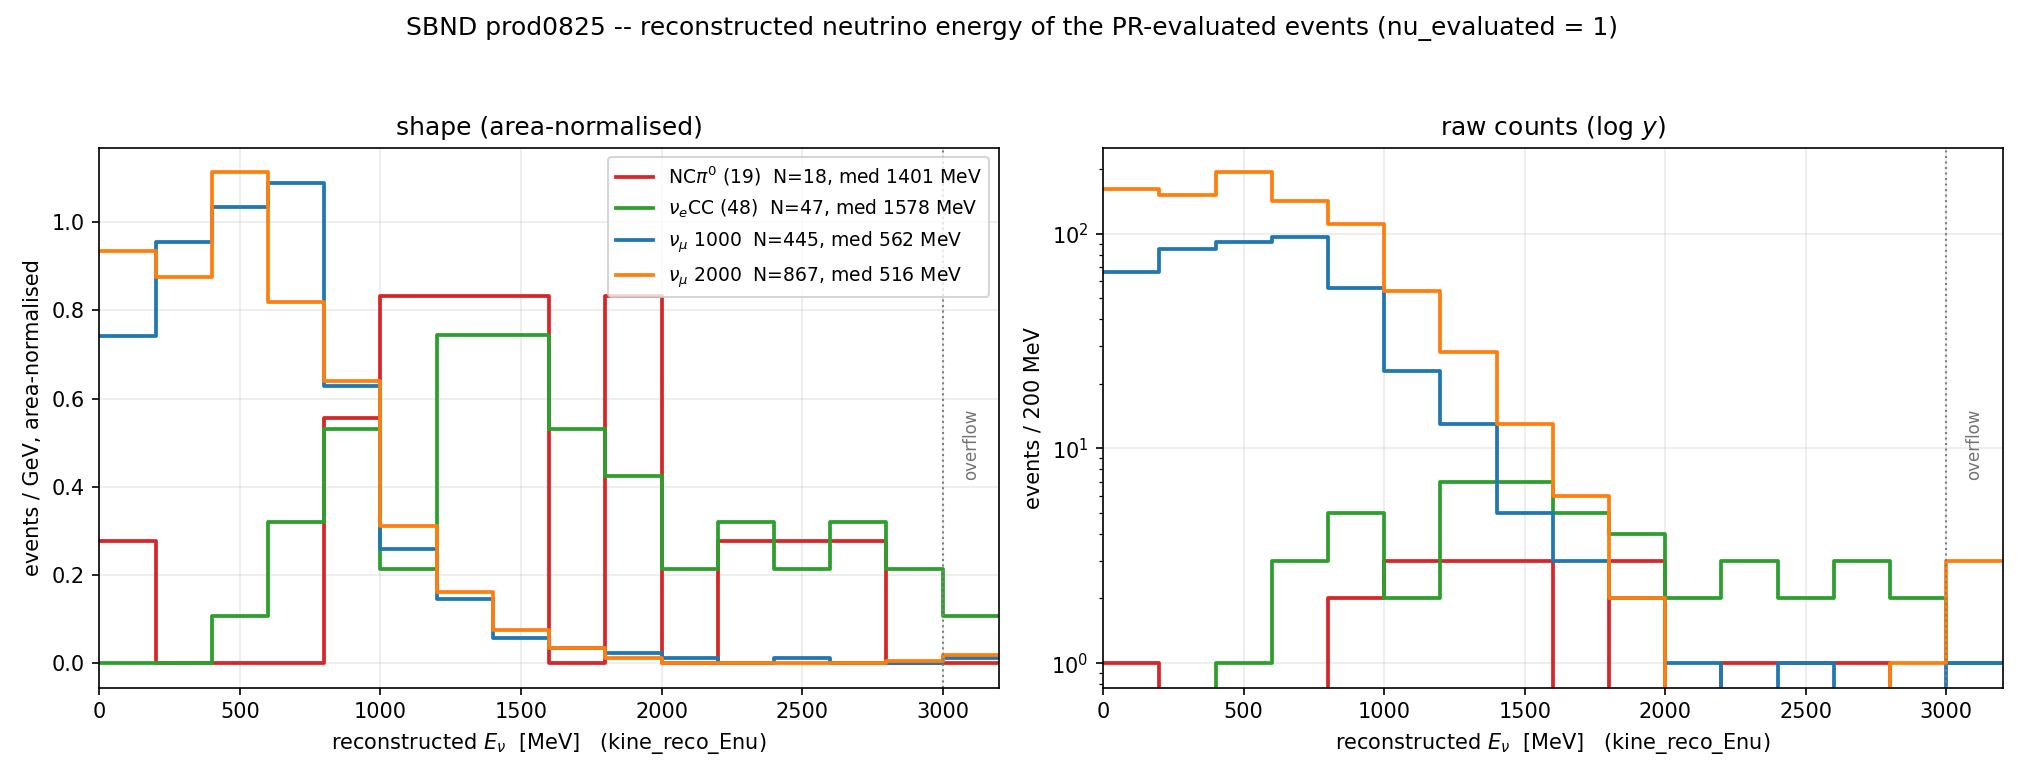
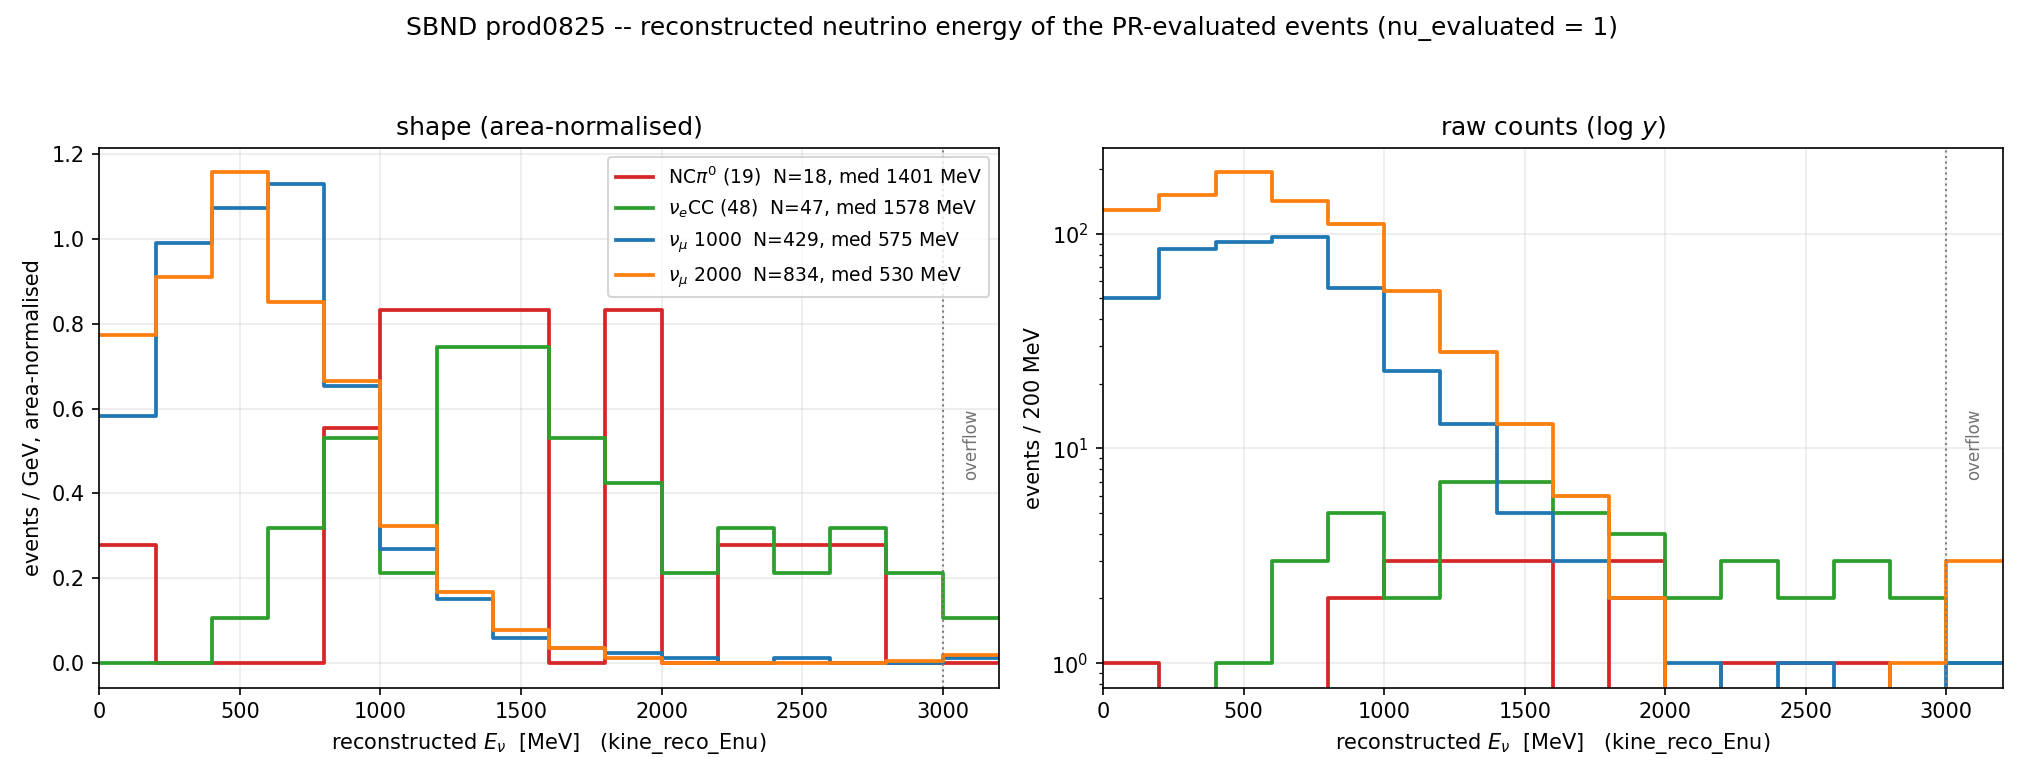
sbnd: doc 85 -- drop the 49 degenerate rows from both figures (zero-E, vertex 0,0,0)
Follow-up audit of the first energy bin.  49 of the 1312 scored numu-sample
events (16 mcp1k + 33 mcp2k, 0 in ncpi0/nuecc48) carry NO reconstruction and
were being plotted as if they did: TaggerCheckNeutrino fires its "selected
main cluster" line on a ~1.5 cm unmerge shard, so nu_evaluated==1, KineInfo
never fills, and -- unlike nu_evaluated==0 -- nothing blanks the row.  Three
signatures coincide exactly: kine_reco_Enu 0.0, vertex (0,0,0), and the SAME
numu_score -1.9416895 for every one of them (BDT on a default feature vector).

Left in they were a quarter of the mcp1k first energy bin and a 49-event
spike in the score plot.  d85_dists.py:degenerate() now excludes them by the
energy+vertex test (not by hard-coding the score); doc 85 gains sec 1.1 and
every affected count is restated:

- plotted 18/47/429/834 (was .../445/867); medians 575 / 530 MeV
- cosmic-like Bee pool 931 -> 110 evaluated -> 63 non-degenerate -> 55 scored
- the 14 rows with no tracking-pr.root row are now named as such, not as an
  empty energy field

The three uploaded Bee sets are UNCHANGED -- all 30 picks and their index
order re-derive identically, verified against bee/d85/*.index.txt.

Claude-Session: https://claude.ai/code/session_013wVioyinWDxnse8LxLjUdi

diff --git a/sbnd/sbnd_xin/scripts/analysis/d85_dists.py b/sbnd/sbnd_xin/scripts/analysis/d85_dists.py
@@ -10,22 +10,23 @@ T_kine scalars of the PR job:
 Population ("the ones with PR"): nu_evaluated == 1, i.e. the PR log carries
 "TaggerCheckNeutrino: selected main cluster ...".  Only then are TaggerInfo /
 KineInfo filled for real; otherwise the ROOT row holds struct DEFAULTS and
-pr_scores_table.py blanks it (see its module docstring).
+pr_scores_table.py blanks it (see its module docstring).  MINUS the degenerate
+class -- see degenerate() below, 49 of 1312 in the numu samples.
 
 Two figures, both written to docs/85_dists/:
 
   d85_enu.png    kine_reco_Enu_MeV, four samples overlaid.  Left panel is
-                 area-normalised (the shapes -- 18 vs 879 events otherwise
+                 area-normalised (the shapes -- 18 vs 834 events otherwise
                  makes two samples invisible); right panel is raw counts on a
                  log y.  Last bin is an explicit OVERFLOW bin, not a clip.
 
-  d85_bdt.png    nue_score vs numu_score.  Split vertically because
+  d85_bdt.png    nue_score vs numu_score.  Split into two panels because
                  nue_score = -15 is NOT missing data: UbooneNueBDTScorer.cxx
                  sets it when br_filled != 1 ("background-like default,
                  matches prototype default_val = -15"), which is ~95 % of the
                  evaluated numu-sample events.  Top panel = the filled
-                 subset, where the real 2-D structure is; bottom strip = the
-                 -15 population at its true numu_score.  Both BDTs are
+                 subset, where the real 2-D structure is; bottom panel = the
+                 -15 population's numu_score, projected.  Both BDTs are
                  log-odds of a clamped xgboost output, so they saturate at
                  +-4.301 -- the pile-ups at the frame edges are the clamp,
                  not a defect.
@@ -59,23 +60,48 @@ NUE_UNFILLED = -15.0
 E_LO, E_HI, E_BW = 0.0, 3000.0, 200.0   # MeV; >E_HI goes into the overflow bin
 
 
+def degenerate(r):
+    """An evaluated row carrying NO reconstruction.
+
+    TaggerCheckNeutrino emits its "selected main cluster" line -- so
+    nu_evaluated is 1 -- even when the main it picked is an unmerge shard a
+    couple of cm long (pr_scores_table.py's own docstring: unmerge_bundle /
+    unmerge_assoc run BEFORE the tagger and mint PR-internal idents).  KineInfo
+    then never fills, and unlike the nu_evaluated==0 case NOTHING blanks the
+    row: it reads out as kine_reco_Enu = 0.0 exactly, vertex (0,0,0) exactly,
+    and -- because the BDT is fed a default feature vector -- the SAME
+    numu_score for every such event (-1.9416895 in prod0825).
+
+    Left in, these land in the first energy bin and in one spike of the score
+    plot, i.e. they read as a physics feature.  All three signatures coincide
+    exactly on 49 of the 1312 scored prod0825 numu-sample events and on 0 of
+    the 65 ncpi0/nuecc48 ones; the energy+vertex test is used here because it
+    does not hard-code the score value."""
+    return (r['kine_reco_Enu_MeV'] and float(r['kine_reco_Enu_MeV']) == 0.0
+            and r['nu_x_cm'] == '0.0' and r['nu_y_cm'] == '0.0' and r['nu_z_cm'] == '0.0')
+
+
 def load(prod, sample):
-    """Evaluated rows only, as floats.  Blank kine_reco_Enu_MeV is kept out of
-    the energy list but the event still counts as evaluated -- both numbers are
-    reported."""
+    """Evaluated rows only, as floats, minus the degenerate class above.  A row
+    with no T_tagger/T_kine values at all (no tracking-pr.root) still counts as
+    evaluated but contributes to neither figure -- both numbers are reported."""
     path = os.path.join('products', prod, f'{sample}-scores-{prod}.tsv')
     with open(path) as f:
         rows = [r for r in csv.DictReader(f, delimiter='\t')
                 if r['nu_evaluated'] == '1']
-    out = {'n_eval': len(rows), 'enu': [], 'numu': [], 'nue': [],
-           'n_cosmic_tagged': sum(1 for r in rows if r['event_label'] == 'cosmic-tagged')}
+    deg = [r for r in rows if degenerate(r)]
+    out = {'n_eval': len(rows), 'n_degenerate': len(deg), 'enu': [], 'numu': [], 'nue': [],
+           'n_cosmic_tagged': sum(1 for r in rows if r['event_label'] == 'cosmic-tagged'),
+           'n_deg_cosmic': sum(1 for r in deg if r['event_label'] == 'cosmic-tagged')}
     for r in rows:
+        if degenerate(r):
+            continue
         if r['kine_reco_Enu_MeV']:
             out['enu'].append(float(r['kine_reco_Enu_MeV']))
         if r['numu_score'] and r['nue_score']:
             out['numu'].append(float(r['numu_score']))
             out['nue'].append(float(r['nue_score']))
-    out['n_enu_blank'] = out['n_eval'] - len(out['enu'])
+    out['n_no_root'] = out['n_eval'] - len(deg) - len(out['numu'])
     return out
 
 
@@ -168,7 +194,7 @@ def fig_bdt(data, outdir):
     top.set_xticklabels([])
     top.set_title('SBND prod0825 -- $\\nu_e$ vs $\\nu_\\mu$ BDT score, PR-evaluated events\n'
                   'dashed frame = the $\\pm$4.301 log-odds clamp (rows of points ON it '
-                  'are saturated, not degenerate)', fontsize=10.5)
+                  'are saturated, not coincident)', fontsize=10.5)
     top.legend(fontsize=9, loc='lower left', framealpha=0.9)
 
     bot.set_yscale('log')
@@ -187,7 +213,8 @@ def fig_bdt(data, outdir):
 
 
 def summary(data, prod, outdir):
-    cols = ['sample', 'n_eval', 'n_cosmic_tagged', 'n_enu', 'enu_blank',
+    cols = ['sample', 'n_eval', 'n_cosmic_tagged', 'n_degenerate', 'n_deg_cosmic',
+            'n_no_root', 'n_enu',
             'enu_min', 'enu_med', 'enu_max', 'n_enu_overflow',
             'nue_filled', 'nue_unfilled', 'numu_med', 'numu_at_clamp']
     path = os.path.join(outdir, f'd85-summary-{prod}.tsv')
@@ -197,7 +224,8 @@ def summary(data, prod, outdir):
             d = data[key]
             e, m = d['enu'], d['numu']
             f.write('\t'.join(str(x) for x in [
-                key, d['n_eval'], d['n_cosmic_tagged'], len(e), d['n_enu_blank'],
+                key, d['n_eval'], d['n_cosmic_tagged'], d['n_degenerate'],
+                d['n_deg_cosmic'], d['n_no_root'], len(e),
                 f'{min(e):.1f}', f'{st.median(e):.1f}', f'{max(e):.1f}',
                 sum(1 for v in e if v >= E_HI),
                 sum(1 for v in d['nue'] if v > NUE_UNFILLED + 0.1),
@@ -222,7 +250,8 @@ def bee_picks(prod, outdir, n=10):
     for s in ('mcp1k', 'mcp2k'):
         path = os.path.join('products', prod, f'{s}-scores-{prod}.tsv')
         for r in csv.DictReader(open(path), delimiter='\t'):
-            if r['nu_evaluated'] == '1' and r['numu_score'] and r['nue_score']:
+            if (r['nu_evaluated'] == '1' and r['numu_score'] and r['nue_score']
+                    and not degenerate(r)):
                 r['_s'], r['_numu'], r['_nue'] = s, float(r['numu_score']), float(r['nue_score'])
                 rows.append(r)
     cand = [r for r in rows if r['event_label'] == 'nu-candidate']

diff --git a/sbnd/sbnd_xin/docs/85_prod0825-energy-and-bdt-distributions.md b/sbnd/sbnd_xin/docs/85_prod0825-energy-and-bdt-distributions.md
@@ -64,37 +64,69 @@ would manufacture a spike at the sentinel values.
 | events in sample | 19 | 48 | 1000 | 2000 |
 | **PR-evaluated** | **18** | **47** | **447** | **879** |
 | …of which `cosmic-tagged` | 0 | 1 | 36 | 74 |
-| with a `kine_reco_Enu` value | 18 | 47 | 445 | 867 |
+| − degenerate (§1.1) | 0 | 0 | 16 | 33 |
+| − no `tracking-pr.root` row at all | 0 | 0 | 2 | 12 |
+| **plotted** | **18** | **47** | **429** | **834** |
 
-Two honest caveats on that table:
+Three honest caveats on that table:
 
 * the evaluated population is **not** a neutrino-purity cut — 110 of the 1326
   evaluated ν<sub>μ</sub>-sample events carry the chain's own `cosmic-tagged`
-  event label. They are in the histograms.
-* 14 evaluated events have an empty `kine_reco_Enu` (2 mcp1k, 12 mcp2k); they
-  are counted as evaluated but excluded from the energy figure, hence
-  `N=445`/`N=867` in its legend.
+  event label, and they are in the histograms.
+* 14 evaluated events (2 mcp1k, 12 mcp2k) have no `T_tagger`/`T_kine` values at
+  all — not a blank energy field but a missing ROOT row; 8 of the 14 are
+  cosmic-tagged. Counted as evaluated, absent from both figures.
+* 49 more are degenerate — next section. They are what would otherwise make
+  the first energy bin and one spike of the score plot look like physics.
+
+### 1.1 The degenerate class: 49 evaluated events with no reconstruction
+
+`TaggerCheckNeutrino` emits its `selected main cluster …` line — so
+`nu_evaluated = 1` — even when the main it picked is an **unmerge shard a
+couple of cm long**. `unmerge_bundle`/`unmerge_assoc` run *before* the tagger
+and mint PR-internal cluster idents, so the tagger can select one of those
+(this is exactly the non-joinability `pr_scores_table.py`'s own docstring
+warns about). `KineInfo` then never fills — and, unlike the
+`nu_evaluated == 0` case, **nothing blanks the row**.
+
+Three signatures coincide *exactly* on these events:
+
+| signature | value |
+|---|---|
+| `kine_reco_Enu` | `0.0` exactly |
+| `nu_x/y/z_cm` | `(0, 0, 0)` exactly |
+| `numu_score` | `-1.9416895` — the *same* value for every one of them (the BDT on a default feature vector) |
+
+They number **16 mcp1k + 33 mcp2k = 49**, and **0 in ncpi0/nuecc48**. Median
+selected-main length is 1.5–1.8 cm (max 52 cm); 47 of the 49 are
+`cosmic-tagged`.
+
+**They are excluded from both figures**, by the energy+vertex test (not by
+hard-coding the score value) in `d85_dists.py:degenerate()`. Left in, all 49
+would sit in the 0–200 MeV bin — a quarter of the mcp1k first bin — and in a
+single 49-event spike at `numu_score = -1.94`. That is a reconstruction
+failure mode worth its own investigation; it is not an energy spectrum.
 
 ## 2. Reconstructed neutrino energy
 
 ![reconstructed Enu](85_dists/d85_enu.png)
 
 `kine_reco_Enu` (MeV) from `T_kine`, four samples overlaid. **Left** is
-area-normalised — this is the panel to read for shape, because 18 against 879
+area-normalised — this is the panel to read for shape, because 18 against 834
 events on a common count axis makes two of the four samples invisible.
 **Right** is raw counts on a log *y*. The bin at 3000–3200 MeV is an explicit
 **overflow** bin, not a clip: 1 nuecc48, 1 mcp1k and 3 mcp2k events live there
-(max 4654 MeV).
+(max 4654 MeV). The 49 degenerate events of §1.1 are out.
 
 | | ncpi0 | nuecc48 | mcp1k | mcp2k |
 |---|---:|---:|---:|---:|
-| N | 18 | 47 | 445 | 867 |
-| min / median / max [MeV] | 126 / **1401** / 2768 | 428 / **1578** / 3948 | 0 / **562** / 3583 | 0 / **516** / 4654 |
+| N | 18 | 47 | 429 | 834 |
+| min / median / max [MeV] | 126 / **1401** / 2768 | 428 / **1578** / 3948 | 11 / **575** / 3583 | 3 / **530** / 4654 |
 
-The two ν<sub>μ</sub>-beam samples land on top of each other (median 562 vs
-516 MeV) — expected, they are consecutive slices of the same MCP2025C data, and
+The two ν<sub>μ</sub>-beam samples land on top of each other (median 575 vs
+530 MeV) — expected, they are consecutive slices of the same MCP2025C data, and
 their agreement is the only internal consistency check this figure offers. The
-two hand-selected samples sit a factor ~2.7 higher and are much flatter. That
+two hand-selected samples sit a factor 2.5–3 higher and are much flatter. That
 is a **selection** statement, not a physics one: `ncpi0` and `nuecc48` were
 picked as π⁰/EM-rich events, and the ncpi0 curve is 18 events across 15 bins,
 so every structure in it is within its own Poisson noise.
@@ -122,15 +154,15 @@ Three features of this plot are real and would otherwise read as defects:
 
 | | ncpi0 | nuecc48 | mcp1k | mcp2k |
 |---|---:|---:|---:|---:|
-| evaluated with both scores | 18 | 47 | 445 | 867 |
+| plotted (both scores, non-degenerate) | 18 | 47 | 429 | 834 |
 | **nue BDT filled** (`> -15`) | **3** | **44** | **20** | **71** |
-| median `numu_score` | +0.57 | −0.45 | +1.69 | +1.42 |
+| median `numu_score` | +0.57 | −0.45 | +1.79 | +1.59 |
 | at the `numu_score` clamp | 0 | 1 | 31 | 70 |
 
 The separation the plot is for: the ν<sub>e</sub>CC sample fills the nue BDT
 **44/47** and piles up at `nue_score = +4.30`, while the same BDT fills for only
-**20/445** and **71/867** of the ν<sub>μ</sub>-sample events. Median
-`numu_score` runs the other way (+1.69/+1.42 for the ν<sub>μ</sub> samples,
+**20/429** and **71/834** of the ν<sub>μ</sub>-sample events. Median
+`numu_score` runs the other way (+1.79/+1.59 for the ν<sub>μ</sub> samples,
 −0.45 for ν<sub>e</sub>CC). NCπ⁰ fills the nue BDT 3/18 and all three land
 *negative* (−3.21 … −1.29) — on this sample of 18 the nue BDT is not being fooled
 by the π⁰.
@@ -153,7 +185,7 @@ on the pr/132 98-event arms (`work-pr132-off98-*` = 0.80 vs
 
 So the shift is a near-uniform few-percent compression, comparable across all
 four samples — it does **not** distort the sample-to-sample comparison in §2,
-and it is far below the ~2.7× median separation between the hand-selected and
+and it is far below the 2.5–3× median separation between the hand-selected and
 beam samples. Two things to keep straight:
 
 * the ceiling is the naive `0.80/0.84 = ×0.952` (−4.8 %); events land above it
@@ -166,17 +198,20 @@ beam samples. Two things to keep straight:
   draw from the 1000/2000, so treat them as an order of magnitude rather than
   the full-sample number.
 
-Re-running the 3067-event chain at 0.84 was not done: at ~77 s/event it is ~11 h
-at the standing job caps, which is not a reasonable cost for a distribution
-plot. If the owner wants the figures at the exact current operating point, that
+Re-running the 3067-event chain at 0.84 was not done: at order 1 min/event it
+is ~10 h at the standing job caps, which is not a reasonable cost for a
+distribution plot. (That rate is a spot check, not a measured mean — prod0825
+was pruned and only one of its per-event logs still carries its `Timer: Total`
+line, at 77 s.) If the owner wants the figures at the exact current operating point, that
 is the price and it should be a fresh tag (`prod0830`), never a write into
 `prod0825` (M13).
 
 ## 5. Three Bee hand-scan sets from the ν<sub>μ</sub> samples
 
-Drawn from the **1312** `mcp1k`+`mcp2k` events that are PR-evaluated and carry
-both scores. Event ids do not collide between mcp1k and mcp2k (checked: 0
-overlaps), so each category is one Bee set spanning both.
+Drawn from the **1263** `mcp1k`+`mcp2k` events that are PR-evaluated, carry both
+scores, and are not degenerate (§1.1) — the same population as the figures.
+Event ids do not collide between mcp1k and mcp2k (checked: 0 overlaps), so each
+category is one Bee set spanning both.
 
 **These are rank-order cuts, not thresholds.** There is no documented
 `numu_score` / `nue_score` operating point anywhere in these docs, so each
@@ -188,12 +223,15 @@ Charge cloud = `work-mcp{1k,2k}-grp0825` (Q/L), PR layers =
 
 ### 5.1 Cosmic-like — [Bee set 7b4ee14a](https://www.phy.bnl.gov/twister/bee/set/7b4ee14a-13c3-4a66-b1ff-abf0034c1df8/event/list/)
 
-Pool: the **102** evaluated events the chain itself labels `cosmic-tagged`
+Pool: the **55** plotted events the chain itself labels `cosmic-tagged`
 (in-beam bundle tagged TGM/STM/LM); picked the 10 lowest `numu_score`, i.e.
-where the tagger and the BDT agree. Note this is the *evaluated* cosmic
-population — a further 821 cosmic-tagged events never got a selected main
-cluster and so carry no scores; they would need `--allow-unevaluated` to reach
-Bee at all.
+where the tagger and the BDT agree. That 55 is what is left of the **931**
+cosmic-tagged events in the two samples: 931 → 110 evaluated (**821** never got
+a selected main cluster at all — no scores; they would need
+`--allow-unevaluated` to reach Bee) → 63 non-degenerate (**47** are the §1.1
+shard class, unsurprisingly concentrated here) → **55** with a ROOT row (8 lack
+one). So this set is the cosmic-like events the chain actually *scored*, not
+the cosmic population.
 
 | Bee | sample | run | event | numu | nue | E [MeV] | link |
 |---:|---|---:|---:|---:|---:|---:|---|
@@ -214,7 +252,7 @@ returned **+0.98** at 1609 MeV.
 
 ### 5.2 ν<sub>e</sub>CC-like inside the ν<sub>μ</sub> samples — [Bee set 7dfadf68](https://www.phy.bnl.gov/twister/bee/set/7dfadf68-bfe2-4d7c-8391-70a1d6b13912/event/list/)
 
-Pool: the **1206** `nu-candidate` events; picked the 10 highest `nue_score`.
+Pool: the **1204** `nu-candidate` events; picked the 10 highest `nue_score`.
 Six of the ten are *at* the +4.301 clamp, so their internal order is arbitrary —
 they are tied, not ranked.
 
@@ -238,7 +276,7 @@ backward-stem-guard event, already hand-scanned in that round.
 
 ### 5.3 ν<sub>μ</sub>-sample events that are neither — [Bee set f6c75e50](https://www.phy.bnl.gov/twister/bee/set/f6c75e50-8f04-4283-9ad5-ddac614add75/event/list/)
 
-Pool: the **1122** `nu-candidate` events whose nue BDT never filled
+Pool: the **1120** `nu-candidate` events whose nue BDT never filled
 (`nue_score = -15`); picked the 10 lowest `numu_score` — i.e. accepted as a
 neutrino candidate by the chain, then rejected by the ν<sub>μ</sub> BDT and never
 even offered to the ν<sub>e</sub> one. The first four are at the −4.301 clamp
@@ -264,8 +302,9 @@ whether the candidate is real at all.
 ## 6. What this document is not
 
 * **Not efficiency or purity.** No truth is used, no selection cut is applied
-  beyond `nu_evaluated == 1`, and the evaluated population still contains 110
-  chain-labelled cosmics in the two ν<sub>μ</sub> samples (111 across all four). Nothing here says how well the BDTs work.
+  beyond `nu_evaluated == 1` and the §1.1 degenerate cut, and the plotted
+  population still contains 55 chain-labelled cosmics in the two
+  ν<sub>μ</sub> samples (56 across all four). Nothing here says how well the BDTs work.
 * **Not the current operating point** — §4. Add ~3–4 % downward to every energy
   to reach production as of 2026-08-30.
 * **Not a gate.** No A/B, no hash comparison, no claim of byte-identicality is
